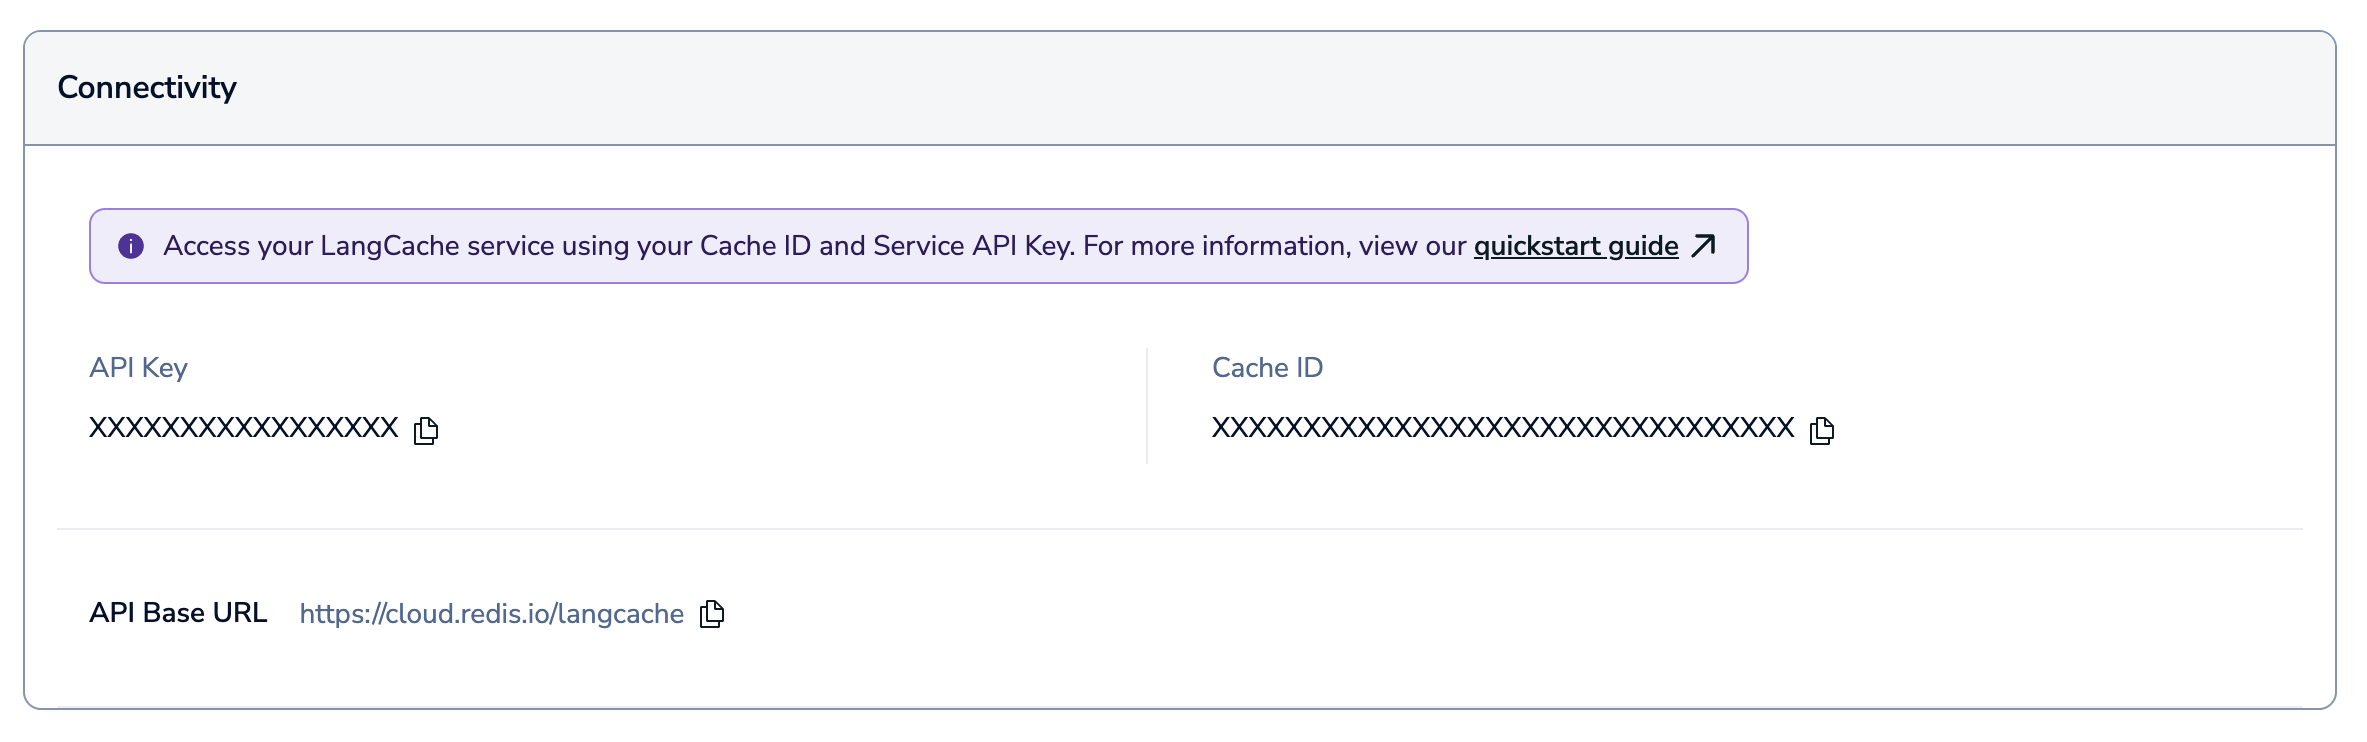
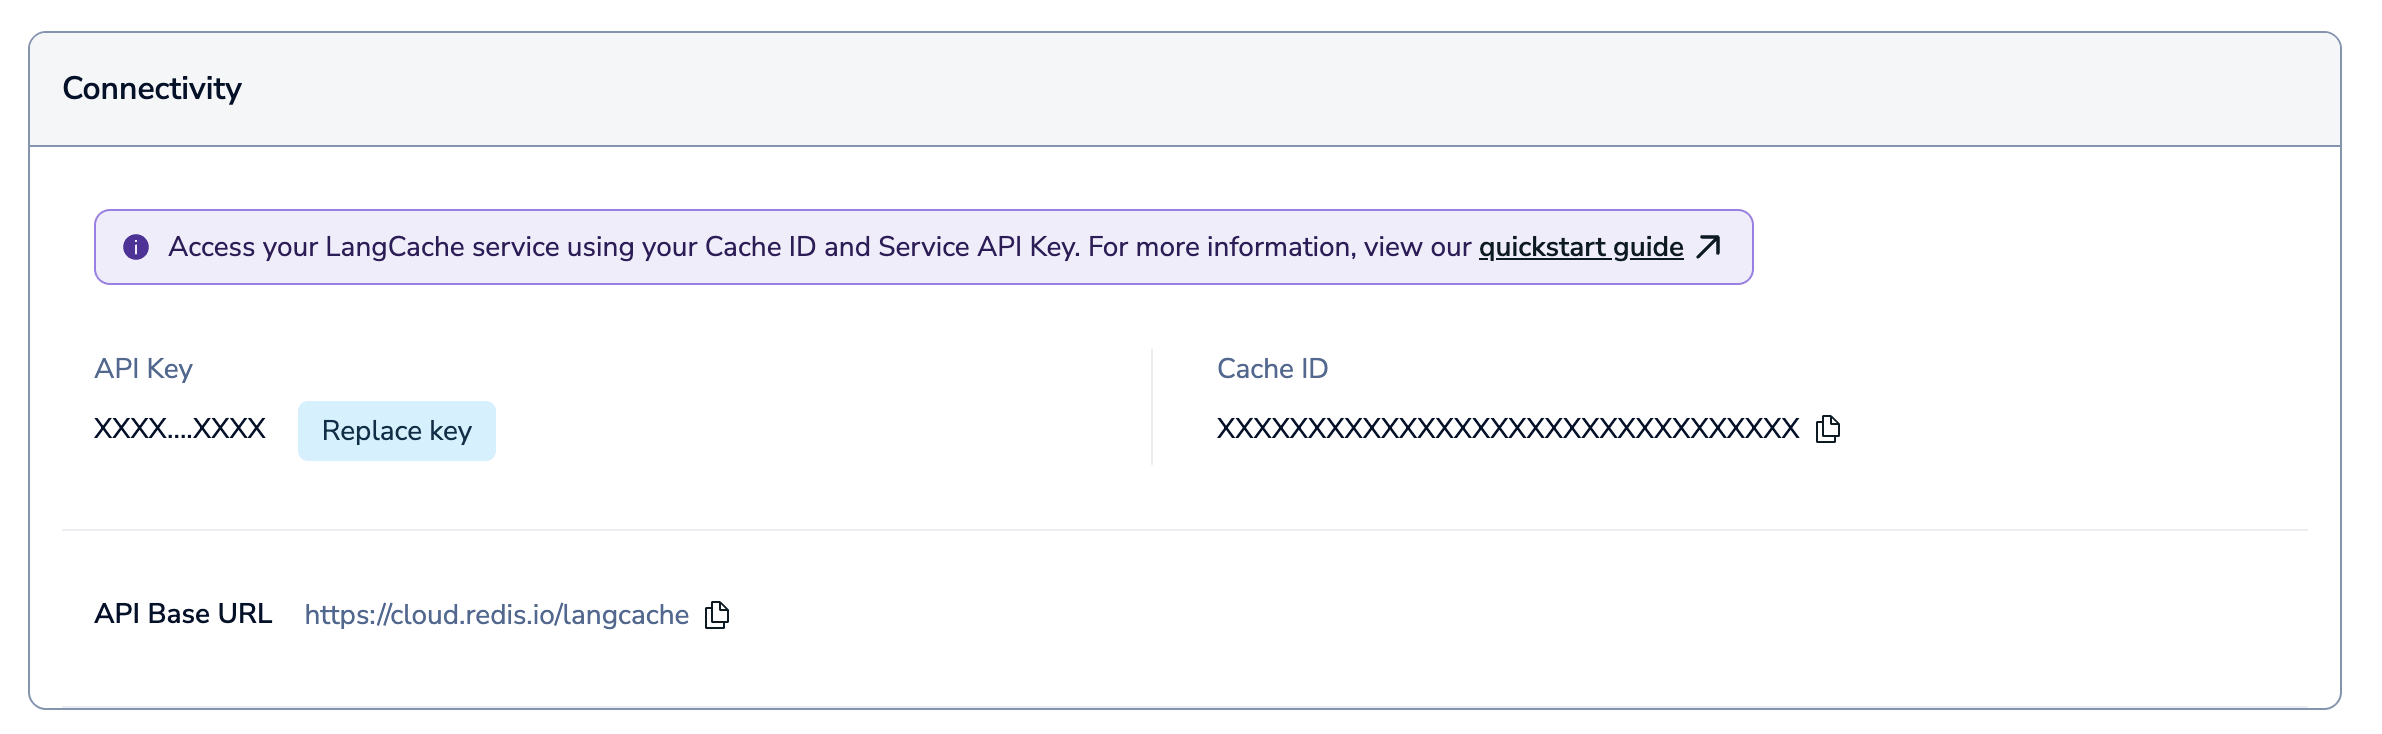
Get up-to-date

diff --git a/content/operate/rc/langcache/create-service.md b/content/operate/rc/langcache/create-service.md
@@ -18,25 +18,27 @@ Redis LangCache provides vector search capabilities and efficient caching for AI
 To create a LangCache service, you will need:
 
 - A Redis Cloud database. If you don't have one, see [Create a database]({{< relref "/operate/rc/databases/create-database" >}}).
+
     {{< note >}}
 LangCache does not support the following databases during public preview:
 - Databases with a [CIDR allow list]({{< relref "/operate/rc/security/cidr-whitelist" >}})
 - [Active-Active]({{< relref "/operate/rc/databases/configuration/active-active-redis" >}}) databases
 - Databases with the [default user]({{< relref "/operate/rc/security/access-control/data-access-control/default-user" >}}) turned off
     {{< /note >}}
+
 - An [OpenAI API key](https://platform.openai.com/api-keys). LangCache uses OpenAI to generate embeddings for prompts and responses.
 
 ## Create a LangCache service
 
-1. From the [Redis Cloud console](https://cloud.redis.io/), select **LangCache** from the left-hand menu.
+From the [Redis Cloud console](https://cloud.redis.io/), select **LangCache** from the left-hand menu. 
 
-1. When you access the LangCache page for the first time, you will see a page with an introduction to LangCache. Select **Let's create a service** to create your first service.
+When you access the LangCache page for the first time, you will see a page with an introduction to LangCache. Select **Let's create a service** to create your first service.
 
-    {{<image filename="images/rc/langcache-create-first-service.png" alt="The Let's create a service button." width="200px" >}}
+{{<image filename="images/rc/langcache-create-first-service.png" alt="The Let's create a service button." width="200px" >}}
 
-    If you have already created a LangCache service, select **New service** to create another one.
+If you have already created a LangCache service, select **New service** to create another one.
 
-    {{<image filename="images/rc/langcache-new-service.png" alt="The New service button." width="150px" >}}
+{{<image filename="images/rc/langcache-new-service.png" alt="The New service button." width="150px" >}}
 
 This takes you to the **Create LangCache service** page. The page is divided into the following sections:
 
@@ -68,7 +70,7 @@ The **Embedding settings** section defines the embedding model used by your serv
 | **Supported Embedding Provider** | The embedding provider to use for your service. LangCache only supports OpenAI during public preview. |
 | **Embedding provider API key** | Enter your embedding provider's API key. |
 | **Model** | Select the embedding model to use for your service. |
-| **Similarity threshold** | Set the minimum similarity score required to consider a cached response a match. Range: `0.0` to `1.0`. Default: `0.9`<br/>A higher value means more precise matches, but if it's too high, you will compromise on the number of matches and may lose relevant matches. A lower value means more matches, but may include less relevant matches. We recommend starting between `0.8` and `0.9` and then fine-tuning based on your results. |
+| **Similarity threshold** | Set the minimum similarity score required to consider a cached response a match. Range: `0.0` to `1.0`. Default: `0.9`<br/><br/>A higher value means more precise matches, but if it's too high, you will compromise on the number of matches and may lose relevant matches. A lower value means more matches, but may include less relevant matches. We recommend starting between `0.8` and `0.9` and then fine-tuning based on your results. |
 
 ### Attributes settings
 
@@ -101,6 +103,16 @@ You can also select **Add attribute** again to add an additional attribute.
 When you are done setting the details of your LangCache service, select **Create** to create it.
 
 {{<image filename="images/rc/button-access-management-user-key-create.png" alt="Use the Create button to create a LangCache service." >}}
+
+A window containing your LangCache service key will appear. Select **Copy** to copy the key to your clipboard. 
+
+{{<image filename="images/rc/langcache-service-key.png" alt="The LangCache service key window. Use the Copy button to save the service key to the clipboard." >}}
+
+{{<warning>}}
+This is the only time the value of the user key is available. Save it to a secure location before closing the dialog box.<br/><br/>
+
+If you lose the service key value, you will need to [replace the service key]({{< relref "/operate/rc/langcache/view-edit-cache#replace-service-api-key" >}}) to be able to use the LangCache API.
+{{</warning>}}
 
 You'll be taken to your LangCache service's **Configuration** page. You'll also be able to see your LangCache service in the LangCache service list.
 

diff --git a/content/operate/rc/langcache/view-edit-cache.md b/content/operate/rc/langcache/view-edit-cache.md
@@ -39,20 +39,47 @@ The **Connectivity** section provides the connection details for your LangCache 
 | **Cache ID** | The unique ID of your LangCache service. |
 | **API Base URL** | The base URL for LangCache API requests. |
 
-Select the **Copy** button next to each value to copy them to the clipboard. See [use the LangCache API]({{< relref "/operate/rc/langcache/use-langcache" >}}) for more information on how to use these values. 
+Select the **Copy** button next to the Cache ID and API Base URL to copy them to the clipboard. If you lost the API key value or need to rotate the key, you can [replace the service API key](#replace-service-api-key) at any time.
+
+See [use the LangCache API]({{< relref "/operate/rc/langcache/use-langcache" >}}) for more information on how to use these values. 
+
+#### Replace service API key
+
+The API key is only available immediately after you create the LangCache service. If you lost this value, or need to rotate the key, you can replace the service key at any time.
+
+To replace the service key:
+
+1. Select **Replace key**.
+
+    {{<image filename="images/rc/langcache-replace-key.png" alt="The Replace Key button." >}}
+
+1. A confirmation dialog will appear. Select **Confirm** to confirm.
+
+1. The new key will appear in a dialog box. Select **Copy** to copy the key to the clipboard.
+
+    {{<image filename="images/rc/langcache-service-key.png" alt="The LangCache service key window. Use the Copy button to save the service key to the clipboard." >}}
+
+    {{<warning>}}
+This is the only time the value of the user key is available. Save it to a secure location before closing the dialog box. <br/><br/>
+
+If you lose the service key value, you will need to replace the key again.
+    {{</warning>}}
 
 ### General
 
 The **General** section provides configuration details for your LangCache service.
 
+{{<image filename="images/rc/langcache-view-general.png" alt="The general settings for the LangCache service." >}}
+
 | Setting name          |Description|
 |:----------------------|:----------|
-| **Service name** | The name of the LangCache service. _(Editable)_ |
+| **Service name** | The name of the LangCache service. |
 | **Database** | The database that stores your cache data. |
-| **Distance threshold** | The minimum similarity score required to consider a cached response a match. _(Editable)_ |
+| **Similarity threshold** | The minimum similarity score required to consider a cached response a match. _(Editable)_ |
+| **TTL** | The number of seconds to cache entries before they expire. _(Editable)_ |
 | **Embedding Provider** | The embedding provider to use for your service. |
 
-Some of the configuration settings can be changed after cache creation. To do so, select the **Edit** button.
+Some of these settings can be changed after cache creation. To do so, select the **Edit** button.
 
 ### Attributes
 
@@ -93,3 +120,7 @@ To delete your LangCache service:
 1. Select **Delete** again to confirm.
 
 Deleting the LangCache service is permanent and cannot be undone.
+
+## Metrics tab
+
+The **Metrics** tab provides a series of graphs showing performance data for your LangCache service. See [Monitor a LangCache service]({{< relref "/operate/rc/langcache/monitor-cache" >}}) for more information.

diff --git a/content/operate/rc/langcache/use-langcache.md b/content/operate/rc/langcache/use-langcache.md
@@ -16,12 +16,14 @@ You can use the LangCache API from your client app to store and retrieve LLM, RA
 To access the LangCache API, you need:
 
 - LangCache API base URL
-- LangCache API token
+- LangCache service API key
 - Cache ID
 
-All of these values are available in the LangCache service's **Configuration** page.
+The base URL and cache ID are available in the LangCache service's **Configuration** page in the [**Connectivity** section]({{< relref "/operate/rc/langcache/view-edit-cache#connectivity" >}}).
 
-When you call the API, you need to pass the LangCache API token in the `Authorization` header as a Bearer token and the Cache ID as the `cacheId` path parameter. 
+The LangCache API key is only available immediately after you create the LangCache service. If you lost this value, you will need to [replace the service API key]({{< relref "/operate/rc/langcache/view-edit-cache#replace-service-api-key" >}}) to be able to use the LangCache API.
+
+When you call the API, you need to pass the LangCache API key in the `Authorization` header as a Bearer token and the Cache ID as the `cacheId` path parameter. 
 
 For example, to check the health of the cache using `cURL`:
 
